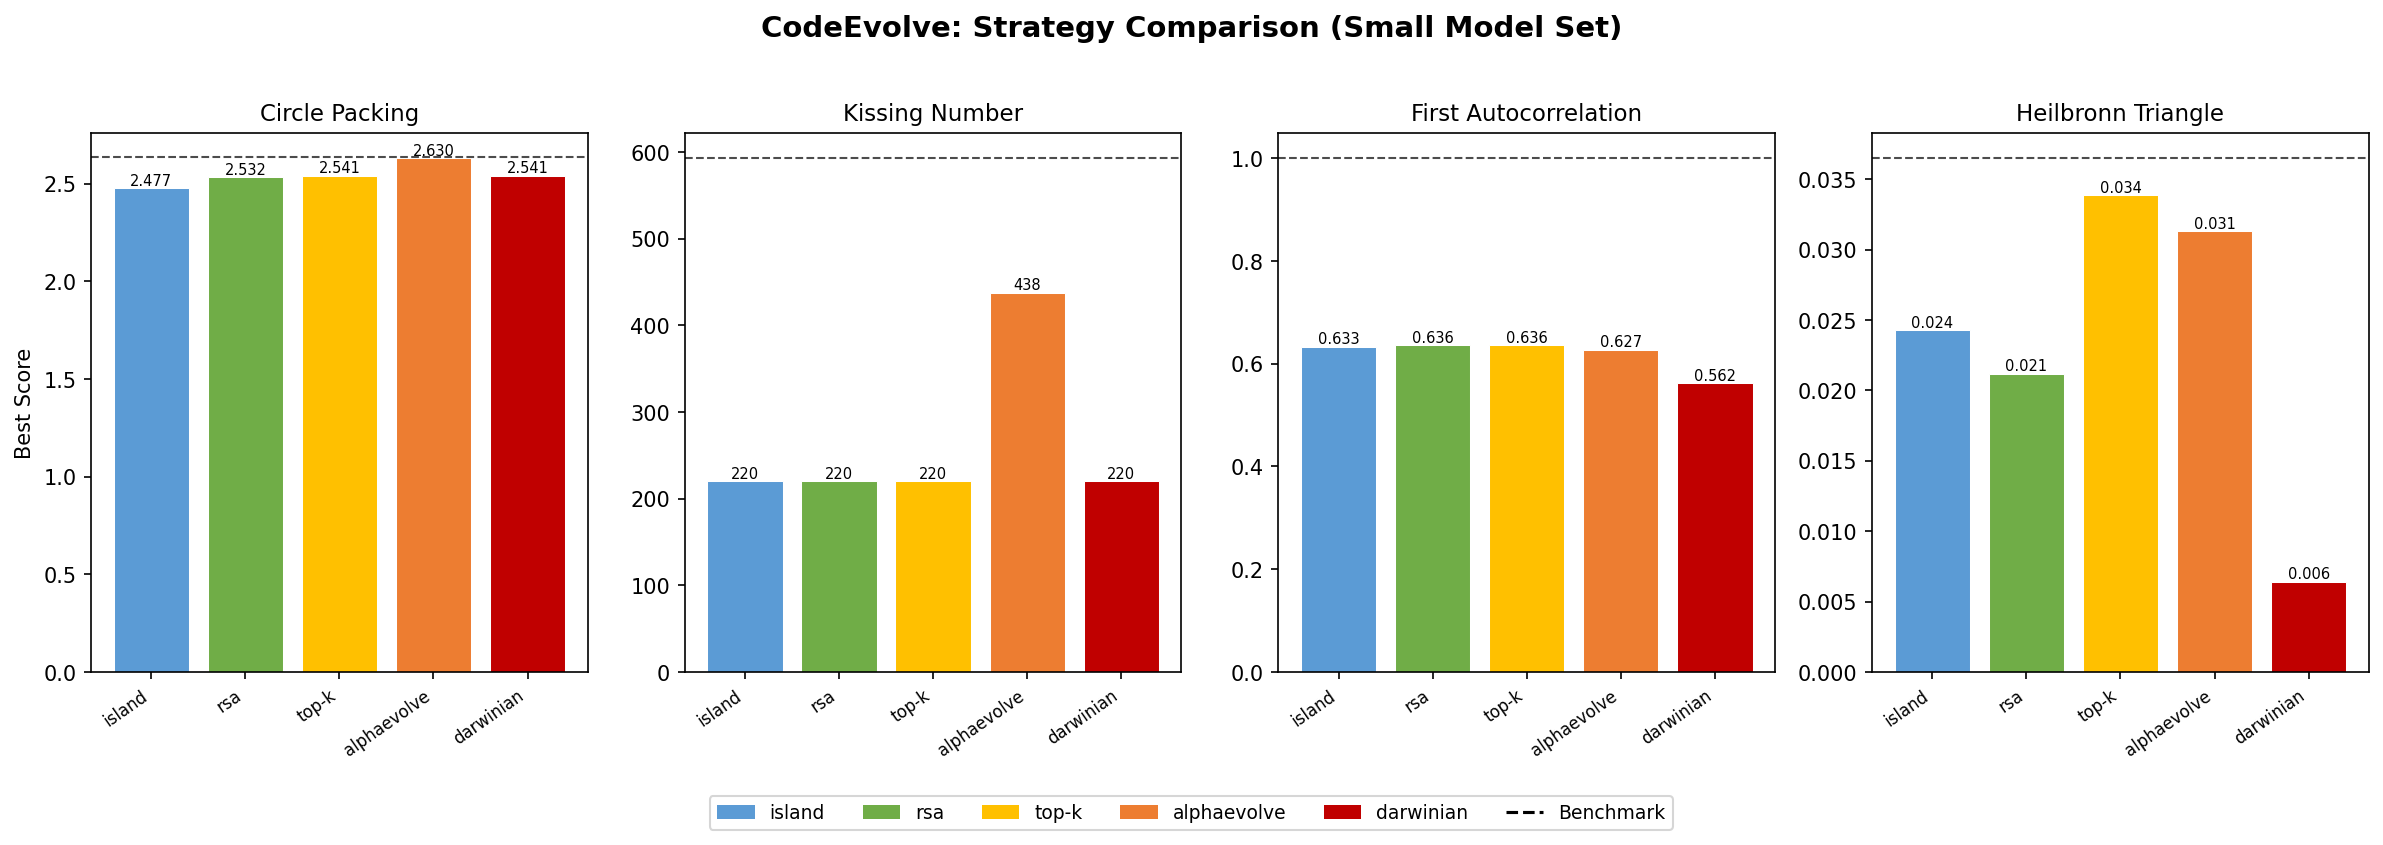
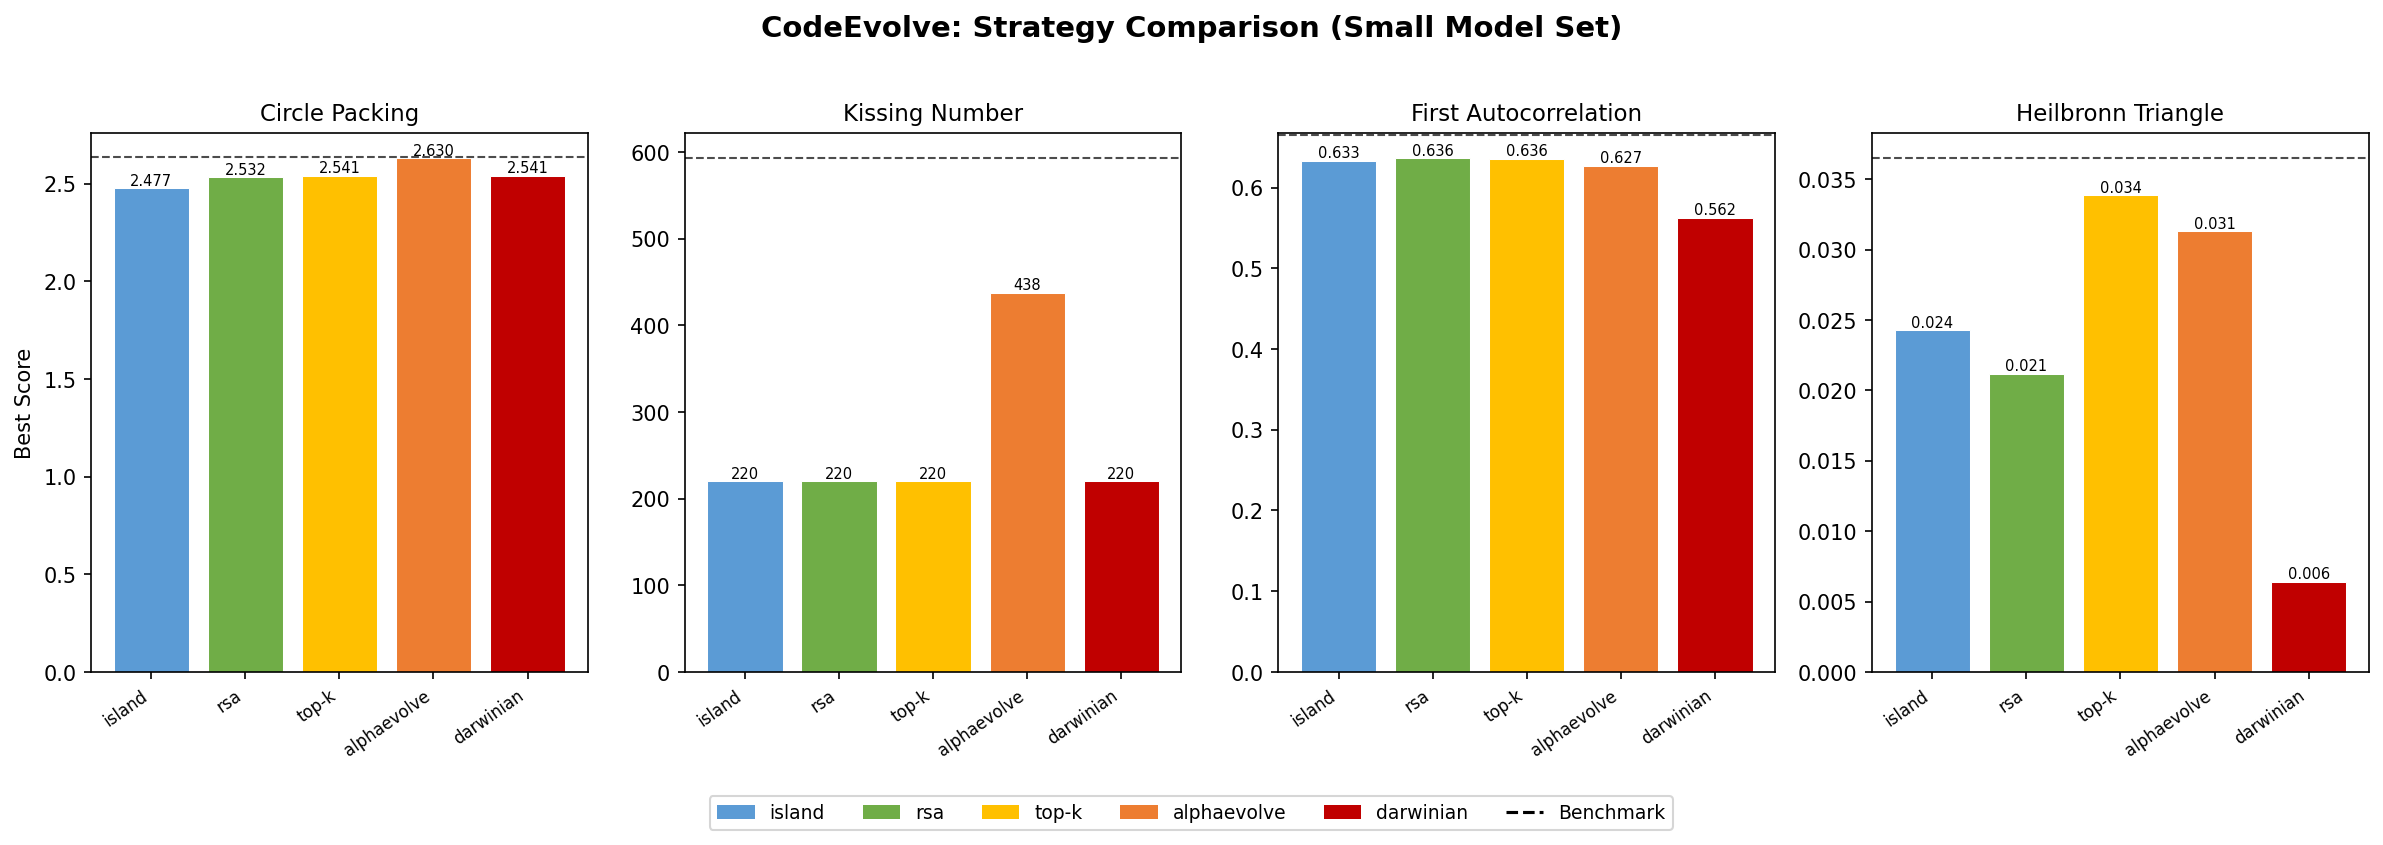
Fix benchmark extraction to use last number in string
"1/C1 > 0.665" was extracting "1" instead of "0.665", placing the
benchmark line off-screen. Now uses findall and takes the last match.

Changed region(s): [[0.4969, 0.1538, 0.7453, 0.4615], [0.4969, 0.6769, 0.5279, 0.7077]]

diff --git a/benchmarks/codeevolve/plot_results.py b/benchmarks/codeevolve/plot_results.py
@@ -47,9 +47,9 @@ def parse_benchmark(value) -> float | None:
         return None
     if isinstance(value, (int, float)):
         return float(value)
-    # Try to extract a number from a string
-    m = re.search(r"[\d.]+", str(value))
-    return float(m.group()) if m else None
+    # Try to extract the last number from a string (e.g. "1/C1 > 0.665" -> 0.665)
+    matches = re.findall(r"[\d.]+", str(value))
+    return float(matches[-1]) if matches else None
 
 
 def load_results(run_name: str) -> list[dict]:
